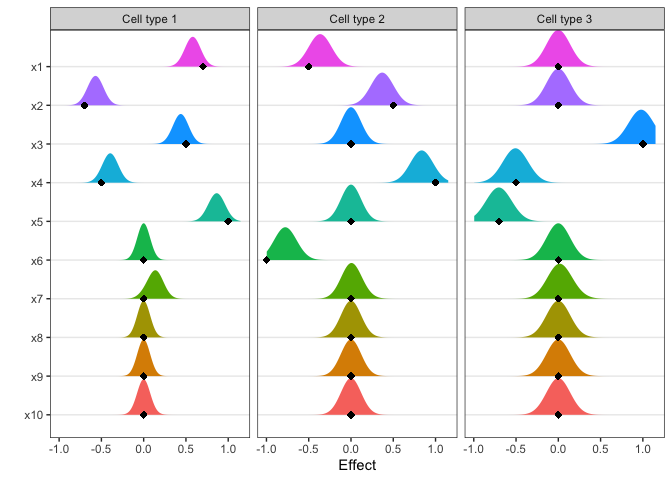
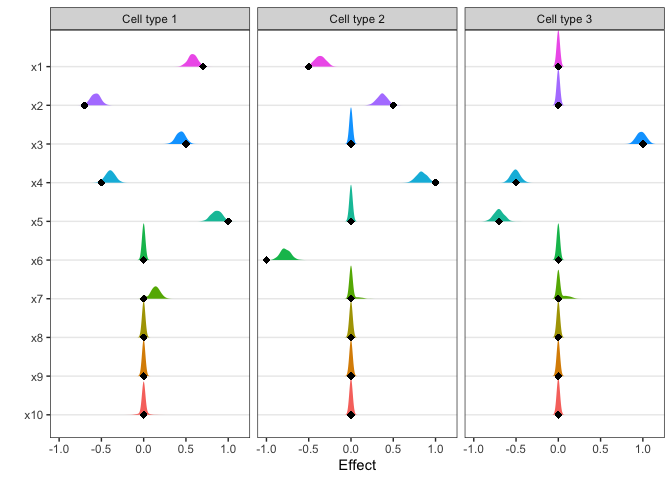
remove % in KM plot

diff --git a/README.md b/README.md
@@ -1,8 +1,9 @@
+
 <img src="man/figures/logo.png" align="right" height="139" alt="GPTCM logo" />
 
 [![CRAN](https://www.r-pkg.org/badges/version/GPTCM)](https://cran.r-project.org/package=GPTCM)
-[![r-universe](https://ocbe-uio.r-universe.dev/badges/GPTCM)](https://ocbe-uio.r-universe.dev/GPTCM)
-[![R-CMD-check](https://github.com/ocbe-uio/GPTCM/workflows/R-CMD-check/badge.svg)](https://github.com/ocbe-uio/GPTCM/actions)
+[![r-universe](https://zhizuio.r-universe.dev/badges/GPTCM)](https://zhizuio.r-universe.dev/GPTCM)
+[![R-CMD-check](https://github.com/zhizuio/GPTCM/workflows/R-CMD-check/badge.svg)](https://github.com/zhizuio/GPTCM/actions)
 [![License](https://img.shields.io/badge/License-GPLv3-brightgreen.svg)](https://www.gnu.org/licenses/gpl-3.0)
 [![DOI](https://img.shields.io/badge/doi-10.32614%2FCRAN.package.GPTCM-brightgreen)](https://doi.org/10.32614/CRAN.package.GPTCM)
 
@@ -25,11 +26,11 @@ install.packages("GPTCM")
 ```
 
 Install the latest development version from
-[GitHub](https://github.com/ocbe-uio/GPTCM):
+[GitHub](https://github.com/zhizuio/GPTCM):
 
 ``` r
 #install.packages("remotes")
-remotes::install_github("ocbe-uio/GPTCM")
+remotes::install_github("zhizuio/GPTCM")
 ```
 
 ## A simulation study
@@ -84,7 +85,7 @@ fit.km <- survival::survfit(Surv(time, event) ~ 1, data = dat$survObj)
 ggsurv <- survminer::ggsurvplot(fit.km,
                                 conf.int = TRUE, 
                                 xlab = "Follow-up time (year)",
-                                ylab = "Survival probability (%)",
+                                ylab = "Survival probability",
                                 legend = "none",
                                 risk.table = TRUE,
                                 cumevents = TRUE,
@@ -147,7 +148,7 @@ selection (BVS).
 
 ``` r
 ## show cel-type-specific effects
-plotCoeff(dat, datMCMC = fit, estimator = "beta")
+plotCoeff(dat, datMCMC = fit, estimator = "beta", bandwidth = 0.02)
 ```
 
 ![](man/figures/fig_betas-1.png)<!-- -->
@@ -165,7 +166,7 @@ proportions, and mPIP of Bayesian variable selection.
 
 ``` r
 ## show cel-type-specific effects
-plotCoeff(dat, datMCMC = fit, estimator = "zeta")
+plotCoeff(dat, datMCMC = fit, estimator = "zeta", bandwidth = 0.02)
 ```
 
 ![](man/figures/fig_zetas-1.png)<!-- -->